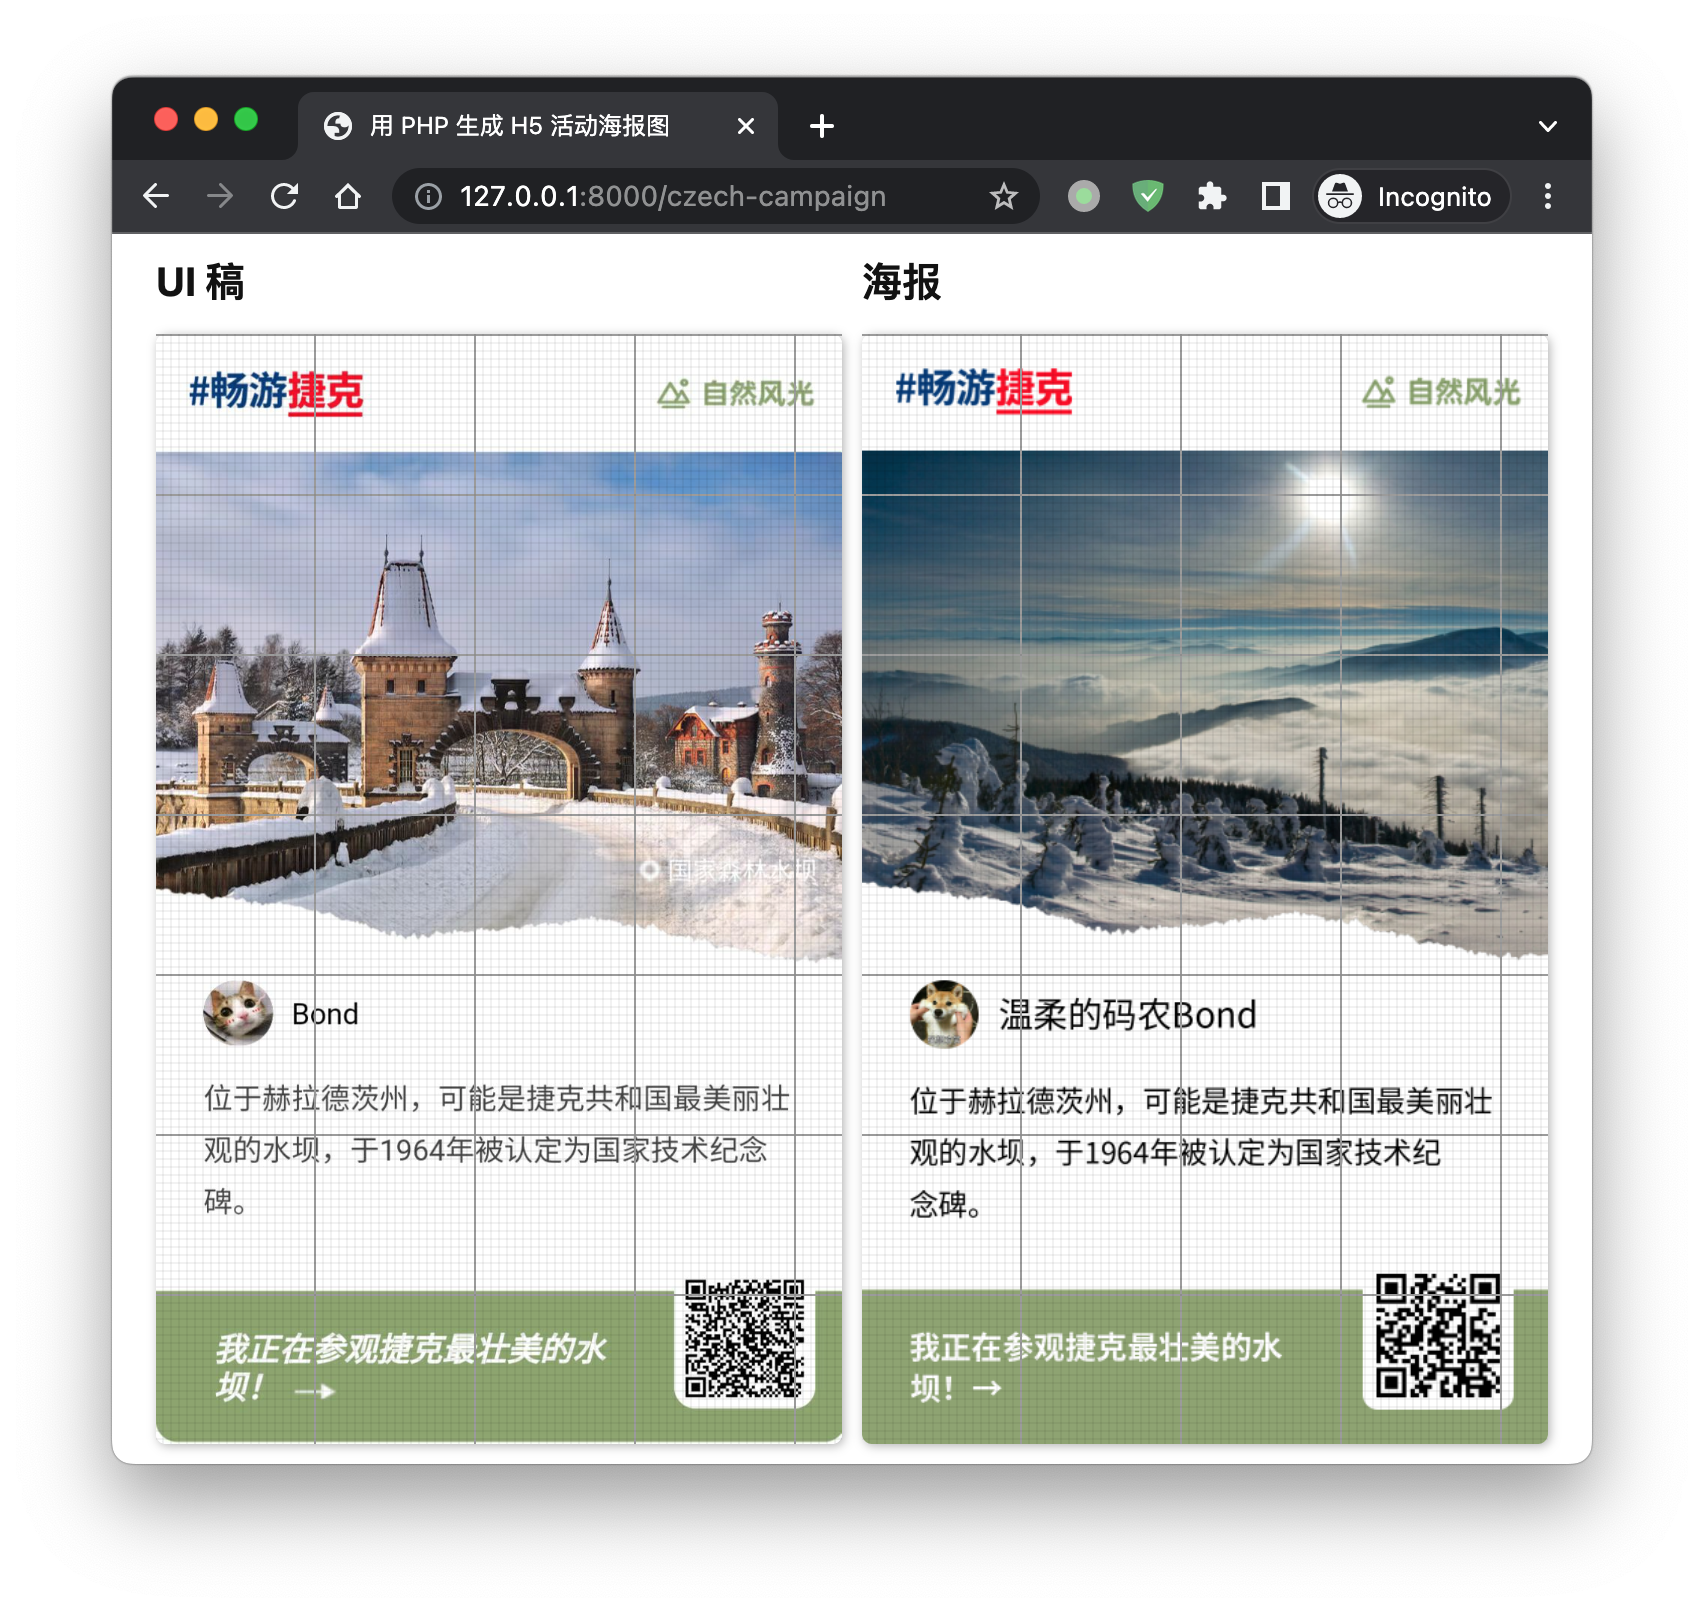
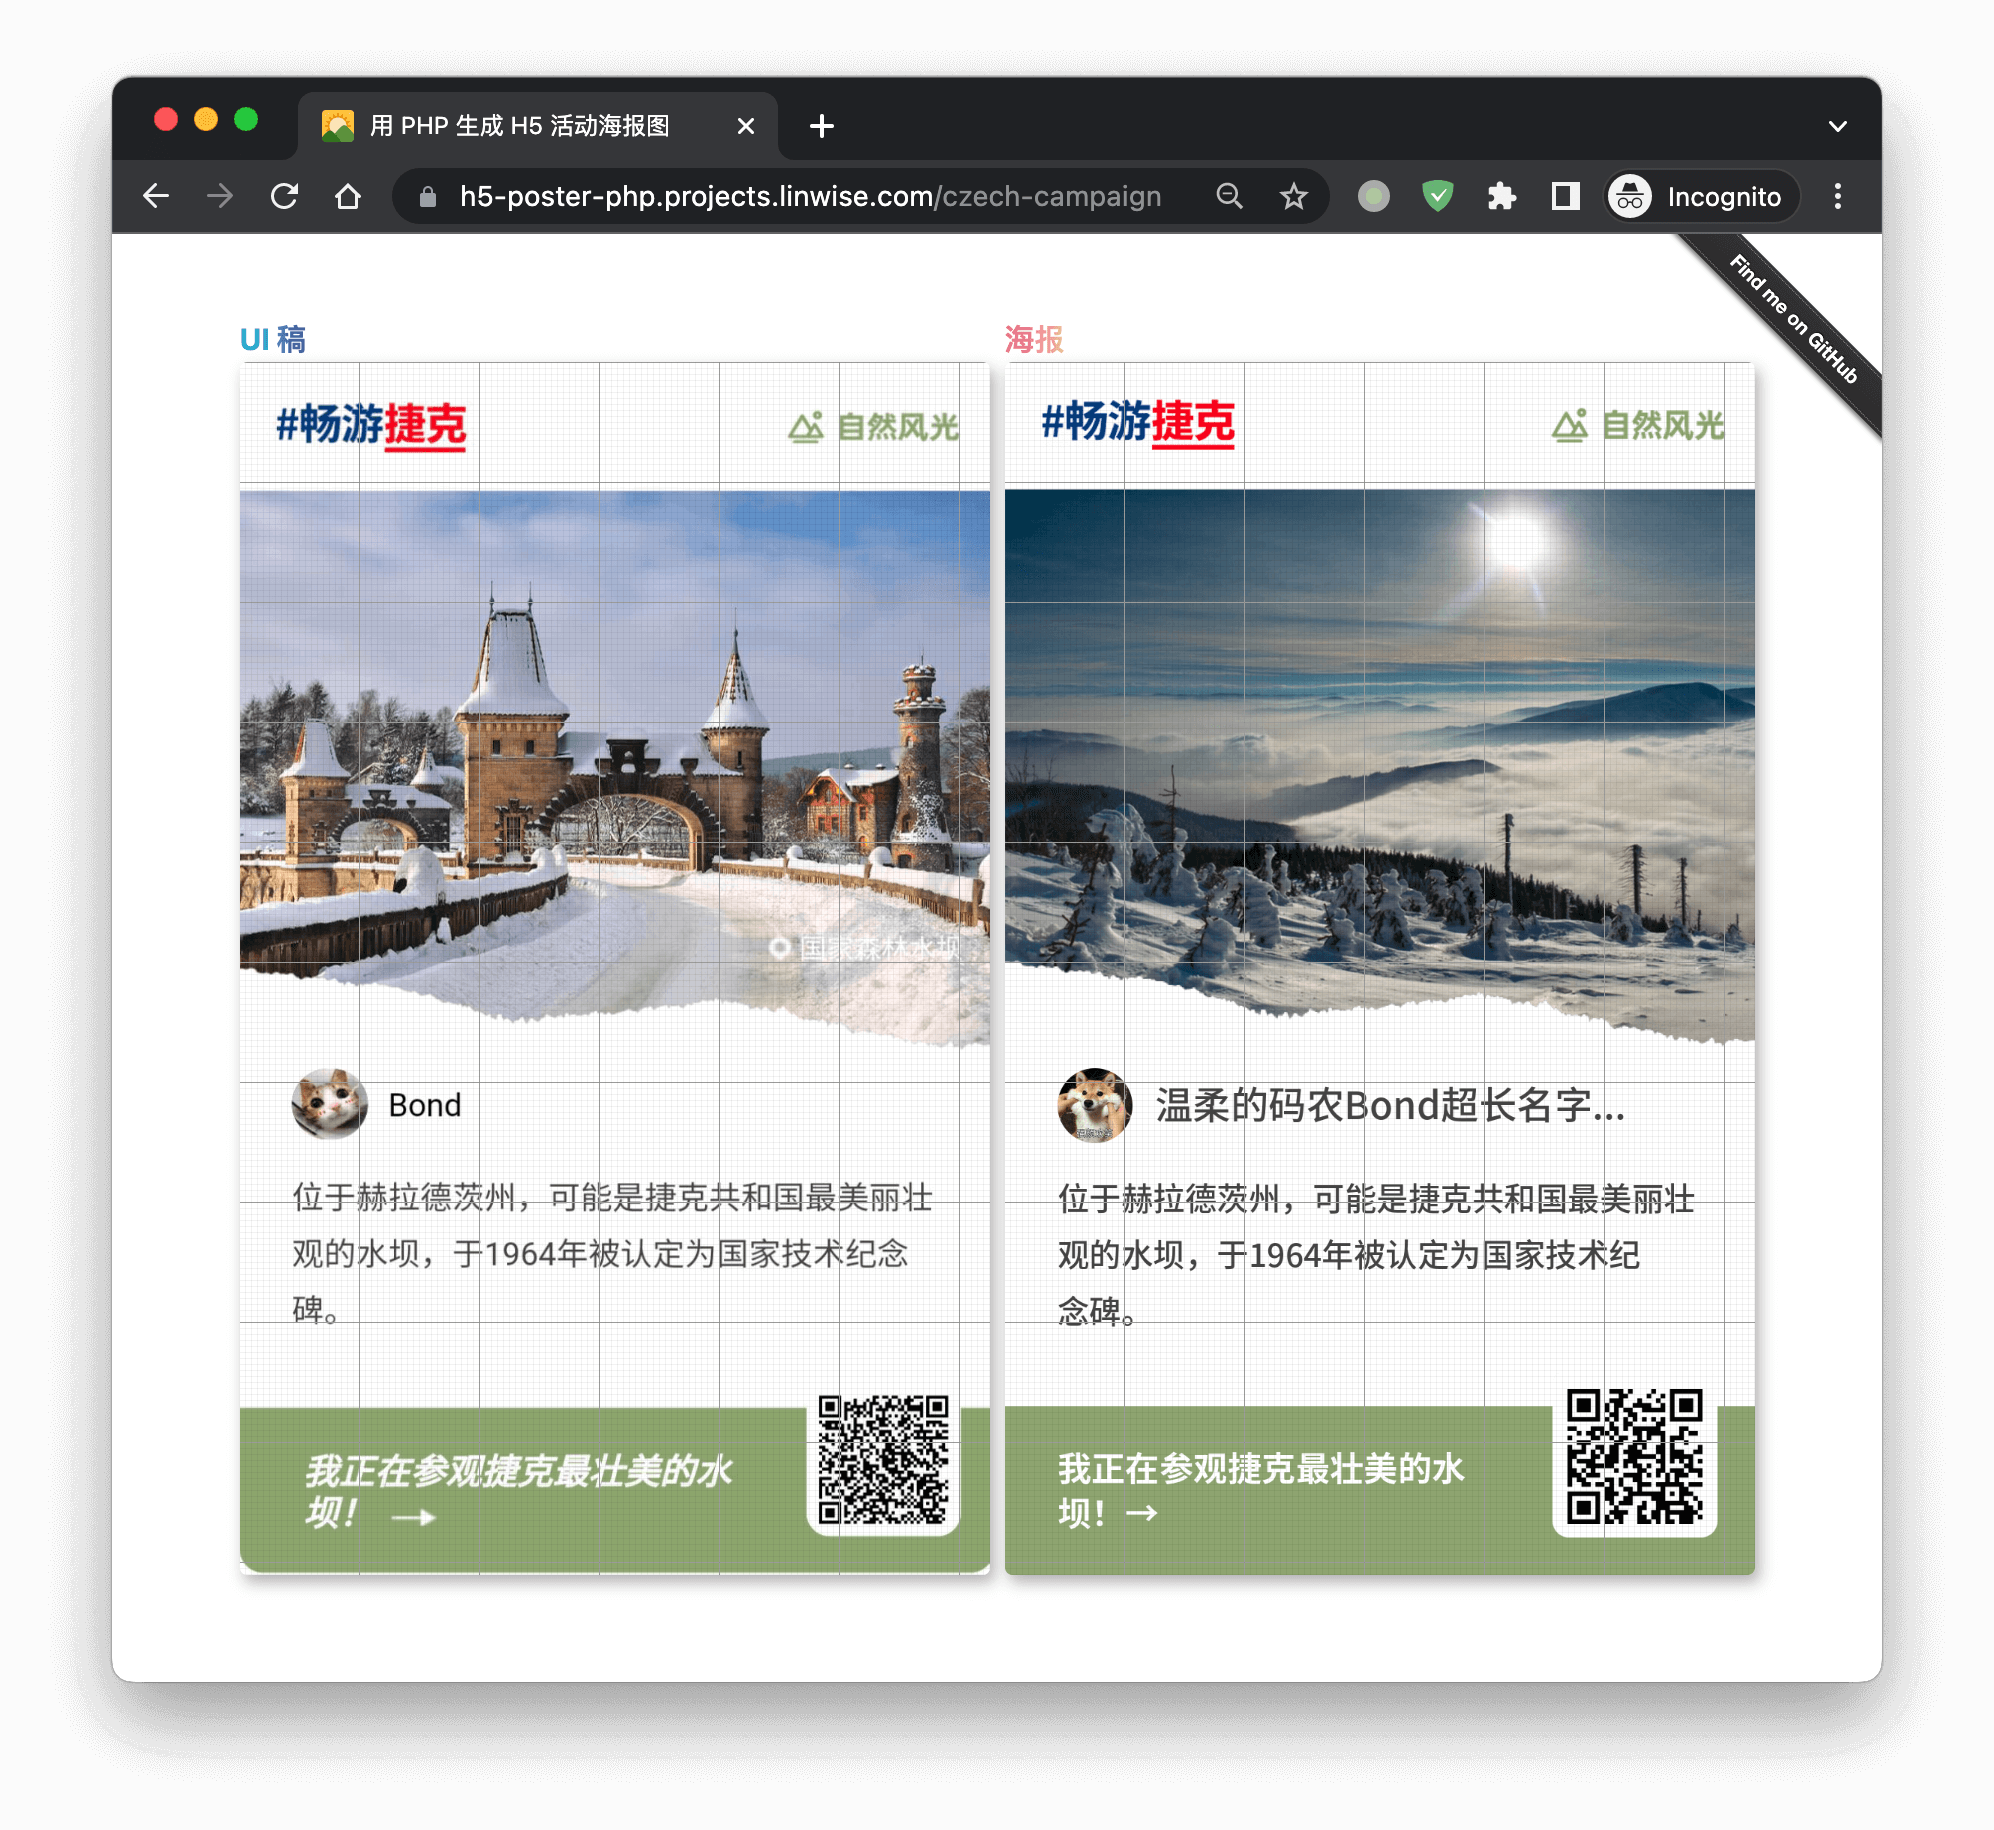
fix: fix font missing bug; add font instalation docs, etc

diff --git a/resources/views/czech_campaign.blade.php b/resources/views/czech_campaign.blade.php
@@ -15,6 +15,7 @@
         body {
             width: 100%;
             height: 100%;
+            position: relative;
         }
 
         .poster-section {
@@ -25,6 +26,8 @@
         }
 
         .poster-card {
+            width: 500px;
+            height: 809px;
             position: relative;
         }
 
@@ -32,23 +35,38 @@
             margin-left: 10px;
         }
 
-        /* 因为要用伪元素放网格，这个就不放在 poster-card 内部区域啦，拉出去 */
         .card-title {
             font-size: 20px;
-            position: absolute;
-            margin-top: -40px;
+            padding-top: 6px;
+            padding-bottom: 1px;
+            display: inline-block;
+            color: transparent;
+            -webkit-background-clip: text;
+            background-clip: text;
+            background-image: linear-gradient(to right, #24c6dc, #514a9d);
         }
 
-        .card-image {
-            max-width: 100%;
-            max-height: 100%;
+        .poster-card + .poster-card .card-title {
+            background-image: linear-gradient(to right, #dd5e89, #f7bb97);
+        }
+
+        .card-figure {
+            width: 500px;
+            height: 809px;
             border-radius: 5px;
-            box-shadow: 1px 1px 5px rgba(0, 0, 0, .3);
+            overflow: hidden;
+            box-shadow: 3px 5px 10px rgba(0, 0, 0, .3);
             position: relative;
+            aspect-ratio: 1000/1618;
+        }
+
+        .card-figure img {
+            width: 100%;
+            height: 100%;
         }
 
         /* 辅助网格 */
-        .poster-card:after {
+        .card-figure:after {
             pointer-events: none;
             content: '';
             display: block;
@@ -77,6 +95,7 @@
                 80px 80px,
                 80px 80px;
         }
+
     </style>
 @endsection
 
@@ -84,14 +103,16 @@
     <div class="poster-section">
         <div class="poster-card">
             <h2 class="card-title">UI 稿</h2>
-            <img class="card-image" src="/static/czech-campaign/ui-mockup.jpg">
+            <div class="card-figure">
+                <img src="/static/czech-campaign/ui-mockup.jpg">
+            </div>
         </div>
         <div class="poster-card">
             <h2 class="card-title">海报</h2>
-            <img class="card-image" src="{{ $img->encoded }}">
+            <div class="card-figure">
+                <img class="card-image" src="{{ $img->encoded }}">
+            </div>
+
         </div>
     </div>
-
-    <a class="github-fork-ribbon" href="https://github.com/dragon-trail-interactive/h5-poster-php"
-        data-ribbon="Fork me on GitHub" title="Fork me on GitHub">Fork me on GitHub</a>
 @endsection

diff --git a/app/Http/Controllers/CzechCampaignController.php b/app/Http/Controllers/CzechCampaignController.php
@@ -53,9 +53,9 @@ class CzechCampaignController extends Controller
         $trimmedNicknameSegments = explode("\r\n", mb_wordwrap('温柔的码农Bond超长名字超长名字超长名字超长名字超长名字', 12));
         $trimmedNickname = count($trimmedNicknameSegments) > 1 ? $trimmedNicknameSegments[0] . '...' : $trimmedNicknameSegments[0];
         $canvas->text($trimmedNickname, 200, 1015, function ($font) {
-            $font->file('fonts/Noto_Sans_SC/NotoSansSC-Regular.otf');
+            $font->file(storage_path('fonts/noto-sans-sc-all-500-normal.woff'));
             $font->size(50);
-            $font->color('#000');
+            $font->color('#444');
             $font->align('left');
         });
 
@@ -65,9 +65,9 @@ class CzechCampaignController extends Controller
         // 文本要手动打断，一行一行放上去
         for ($i = 0; $i < count($description); $i++) {
             $canvas->text($description[$i], 70, 1138 + $i * 75, function ($font) {
-                $font->file('fonts/Noto_Sans_SC/NotoSansSC-Regular.otf');
+                $font->file(storage_path('fonts/noto-sans-sc-all-500-normal.woff'));
                 $font->size(42);
-                $font->color('#000');
+                $font->color('#444');
                 $font->align('left');
             });
         }
@@ -88,7 +88,7 @@ class CzechCampaignController extends Controller
         // 文本要手动打断，一行一行放上去
         for ($i = 0; $i < count($description); $i++) {
             $canvas->text($description[$i], 70, ($canvasHeight - 120) + 60 * $i, function ($font) {
-                $font->file('fonts/Noto_Sans_SC/NotoSansSC-Bold.otf');
+                $font->file(storage_path('fonts/noto-sans-sc-all-700-normal.woff'));
                 $font->size(45);
                 $font->color('#fff');
                 $font->align('left');

diff --git a/resources/views/layouts/main.blade.php b/resources/views/layouts/main.blade.php
@@ -30,6 +30,9 @@
 
     @yield('content')
 
+    <a class="github-fork-ribbon" href="https://github.com/dragon-trail-interactive/h5-poster-php"
+        data-ribbon="Find me on GitHub" title="Find me on GitHub">Find me on GitHub</a>
+
 </body>
 
 </html>

diff --git a/README.md b/README.md
@@ -11,7 +11,7 @@
 
 ## 功能
 
-- 网格线是为了方便做布局加了一个伪元素.
+- 网格线是为了方便做布局, 加了一个伪元素.
 - 多行文本时, 打断了文本一行一行画上去的, 假装折行了.
 - 圆图像是在矩形图形上再盖一个有圆形中空图形生成的.
 
@@ -19,13 +19,23 @@
 
 - 克隆项目, 直接参考 [CzechCampaignController.php](app/Http/Controllers/CzechCampaignController.php) 开发新的海报图.
 - 图片都放在了 `public/static` 目录了.
+- 字体文件太大, 不写入仓库. 记得把字体从 [Google Fonts](https://fonts.google.com/noto/specimen/Noto+Sans+SC?query=Noto+Sans)/[Fontsource](https://fontsource.org/fonts/noto-sans-sc) 下载下来, 放在 `storage/fonts` 目录下. 也可用下面的的脚本下载下来并放好:
+
+    ```sh
+    yarn add @fontsource/noto-sans-sc
+    mv node_modules/@fontsource/noto-sans-sc/files/* storage/fonts/
+    ```
 
 ## 已知限制
 
 - 多行文本时, 非等宽字体文本的右边会显得对不齐, 没法指定一个容器让直接往里放, 超出自然折行.
 - 圆图低不是单色时要把盖在上面的有圆形中空的图形精细处理一下, 使盖住后要正好跟底拼接好, 会麻烦点, 哈哈哈.
-- 做不了斜体字.
+- 做不了斜体字, 除非你找到的那个字体本身就带有斜体.
+
+## 错误处理
+
+- 错误信息: "Internal GD font () not available. Use only 1-5.", 是字体不存在, 可能是路径写错了.
 
 ## 广告时间
 
-> 窝在找工作, 求速速带走~ 🙋♂ 关于我: https://github.com/shrekuu/resume
+> 窝在找工作, 求速速带走~ 🙋♂ 关于窝: https://github.com/shrekuu/resume
